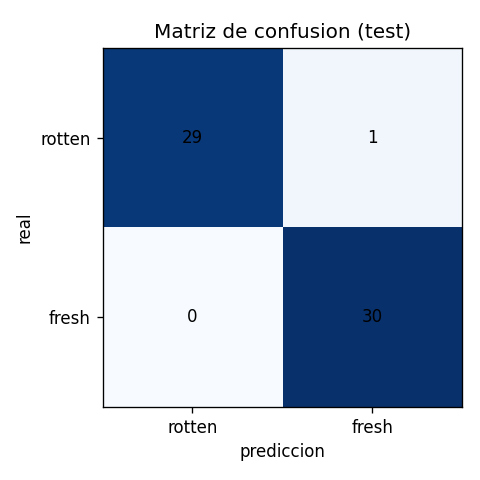
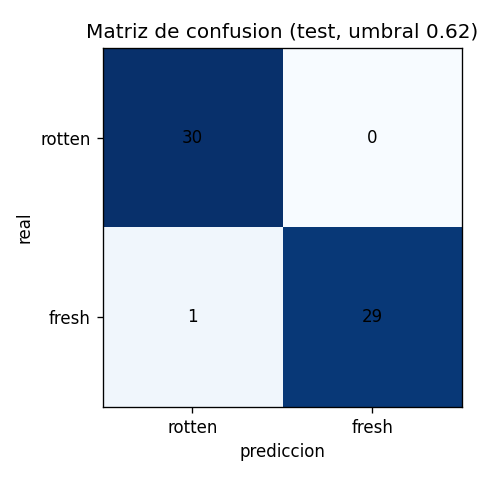
feat: calibrate the decision threshold toward catching rotten fruit
Letting a rotten grape pass as fresh is the expensive error; discarding
a good one only costs fruit. So the threshold for declaring "fresh" is
no longer a hardcoded 0.5: training sweeps it on the validation set and
keeps the lowest value that lets no rotten fruit through, breaking ties
by accuracy. It landed on 0.62.

Test accuracy is unchanged at 0.983, but the confusion matrix flips to
the safe side: 30 of 30 rotten caught and none passed, against one good
grape discarded. Rotten recall is 1.000 on both val and test.

The threshold ships inside preprocessing.json, so evaluate and predict
apply the same value the calibration chose, and predict now prints the
raw probability against it rather than a bare confidence.

Claude-Session: https://claude.ai/code/session_01ALGJCpbrsqPptQtiTy4SZi

diff --git a/src/evaluate.py b/src/evaluate.py
@@ -31,8 +31,9 @@ def predict_split(model: tf.keras.Model, split: str = "test"):
     part = frame[frame["split"] == split].reset_index(drop=True)
     ds = preprocessing.build_dataset(split, frame)
 
+    threshold = preprocessing.decision_threshold()
     probabilities = model.predict(ds, verbose=0).ravel()
-    return part["label"].to_numpy(), (probabilities >= 0.5).astype(int), part
+    return part["label"].to_numpy(), (probabilities >= threshold).astype(int), part
 
 
 def evaluate(model: tf.keras.Model, split: str = "test") -> dict:
@@ -42,20 +43,26 @@ def evaluate(model: tf.keras.Model, split: str = "test") -> dict:
         y_true, y_pred, average="binary", zero_division=0
     )
 
-    # Precision por foto original: cada foto aporta varias variantes, asi que
-    # votamos entre ellas. Da una lectura mas honesta del tamaño real del test.
+    # Fraccion de podridas efectivamente detectadas: es la metrica que importa
+    # cuando dejar pasar fruta en mal estado es el error caro.
+    rotten_recall = float(((y_true == 0) & (y_pred == 0)).sum() / max((y_true == 0).sum(), 1))
+
+    # Precision por foto original: cuando el dataset trae variantes de una misma
+    # foto, votamos entre ellas. Con un archivo por foto coincide con la normal.
     per_photo = part.assign(pred=y_pred).groupby("base_id").agg(
         label=("label", "first"), vote=("pred", lambda s: int(s.mean() >= 0.5))
     )
 
     return {
         "split": split,
+        "decision_threshold": preprocessing.decision_threshold(),
         "n_images": int(len(y_true)),
         "n_photos": int(part["base_id"].nunique()),
         "accuracy": float(accuracy_score(y_true, y_pred)),
         "precision": float(precision),
         "recall": float(recall),
         "f1": float(f1),
+        "rotten_recall": rotten_recall,
         "accuracy_per_photo": float(accuracy_score(per_photo["label"], per_photo["vote"])),
     }
 
@@ -72,7 +79,7 @@ def confusion_matrix(model: tf.keras.Model, split: str = "test") -> np.ndarray:
     ax.set_yticks([0, 1], labels=names)
     ax.set_xlabel("prediccion")
     ax.set_ylabel("real")
-    ax.set_title(f"Matriz de confusion ({split})")
+    ax.set_title(f"Matriz de confusion ({split}, umbral {preprocessing.decision_threshold():.2f})")
     for i in range(2):
         for j in range(2):
             ax.text(j, i, matrix[i, j], ha="center", va="center", color="black")
@@ -128,6 +135,7 @@ def main() -> None:
         print(
             f"[{split}] accuracy={values['accuracy']:.3f} precision={values['precision']:.3f} "
             f"recall={values['recall']:.3f} f1={values['f1']:.3f} "
+            f"| podridas detectadas={values['rotten_recall']:.3f} "
             f"(por foto: {values['accuracy_per_photo']:.3f}, "
             f"{values['n_images']} imgs / {values['n_photos']} fotos)"
         )

diff --git a/src/train.py b/src/train.py
@@ -5,9 +5,10 @@ from __future__ import annotations
 import json
 from pathlib import Path
 
+import numpy as np
 import tensorflow as tf
 
-from . import config, model as model_module, preprocessing
+from . import config, dataset, model as model_module, preprocessing
 
 HISTORY_PATH = config.MODELS_DIR / "history.json"
 
@@ -34,11 +35,39 @@ def train():
     return cnn, history
 
 
+def choose_threshold(trained_model: tf.keras.Model) -> float:
+    """Calibra en VALIDACION el umbral para declarar 'fresh'.
+
+    Dejar pasar una uva podrida como fresca es el error caro; descartar una
+    sana solo cuesta fruta. Asi que se busca el umbral mas bajo que no deje
+    escapar ninguna podrida, y entre los empatados el de mejor accuracy. El
+    umbral se elige en validacion, nunca en test.
+    """
+    frame = dataset.load_labels()
+    y_true = frame[frame["split"] == "val"]["label"].to_numpy()
+    probabilities = trained_model.predict(
+        preprocessing.build_dataset("val", frame), verbose=0
+    ).ravel()
+
+    mejor, mejor_clave = 0.5, None
+    for threshold in np.arange(0.30, 0.96, 0.01):
+        predicted = (probabilities >= threshold).astype(int)
+        escapan = int(((y_true == 0) & (predicted == 1)).sum())
+        accuracy = float((predicted == y_true).mean())
+        clave = (-escapan, accuracy)  # primero minimizar escapes, luego accuracy
+        if mejor_clave is None or clave > mejor_clave:
+            mejor, mejor_clave = round(float(threshold), 2), clave
+
+    escapan, accuracy = -mejor_clave[0], mejor_clave[1]
+    print(f"umbral calibrado -> {mejor:.2f} (val: {escapan} podridas escapan, accuracy {accuracy:.3f})")
+    return mejor
+
+
 def save_artifacts(trained_model: tf.keras.Model, history=None) -> None:
     """Save the model (.keras) and the preprocessing config (.json)."""
     config.MODELS_DIR.mkdir(parents=True, exist_ok=True)
     trained_model.save(config.MODEL_PATH)
-    preprocessing.save_preprocessing()
+    preprocessing.save_preprocessing(decision_threshold=choose_threshold(trained_model))
 
     if history is not None:
         HISTORY_PATH.write_text(

diff --git a/src/preprocessing.py b/src/preprocessing.py
@@ -80,14 +80,17 @@ def build_datasets():
     return train_ds, val_ds
 
 
-def save_preprocessing(path: Path = config.PREPROCESSING_PATH) -> Path:
-    """Serialize img_size, normalization and classes to JSON."""
+def save_preprocessing(
+    path: Path = config.PREPROCESSING_PATH, decision_threshold: float = 0.5
+) -> Path:
+    """Serialize img_size, normalization, classes and decision threshold."""
     path.parent.mkdir(parents=True, exist_ok=True)
     payload = {
         "img_size": list(config.IMG_SIZE),
         "normalization": NORMALIZATION,
         "classes": config.CLASSES,
         "variants_per_photo": config.VARIANTS_PER_PHOTO,
+        "decision_threshold": float(decision_threshold),
     }
     path.write_text(json.dumps(payload, indent=2), encoding="utf-8")
     return path
@@ -98,3 +101,13 @@ def load_preprocessing(path: Path = config.PREPROCESSING_PATH) -> dict:
     if not path.exists():
         raise FileNotFoundError(f"Falta {path}. Corre antes: python -m src.train")
     return json.loads(path.read_text(encoding="utf-8"))
+
+
+def decision_threshold(path: Path = config.PREPROCESSING_PATH) -> float:
+    """Umbral por encima del cual se declara 'fresh'.
+
+    Se calibra en validacion al entrenar. Es mayor que 0.5 a proposito: dejar
+    pasar una uva podrida como fresca es mas grave que descartar una sana, asi
+    que se exige mas evidencia para decir 'fresh'.
+    """
+    return float(load_preprocessing(path).get("decision_threshold", 0.5))

diff --git a/src/predict.py b/src/predict.py
@@ -34,18 +34,21 @@ def predict(image_path: Path) -> dict:
         raise FileNotFoundError(f"No existe la imagen {image_path}")
 
     # Releemos el preprocessing guardado junto al modelo para aplicar en
-    # inferencia exactamente la misma transformacion que en entrenamiento.
-    preprocessing.load_preprocessing()
+    # inferencia exactamente la misma transformacion que en entrenamiento,
+    # incluido el umbral de decision calibrado.
+    threshold = preprocessing.decision_threshold()
 
     model = load_model()
     image = preprocessing.load_image(image_path)
     probability = float(model.predict(np.expand_dims(image, 0), verbose=0)[0][0])
 
-    label = int(probability >= 0.5)
+    label = int(probability >= threshold)
     return {
         "image": image_path.name,
         "label": label,
         "class_name": config.CLASS_NAMES[label],
+        "p_fresh": probability,
+        "threshold": threshold,
         "confidence": probability if label == 1 else 1 - probability,
     }
 
@@ -58,8 +61,8 @@ def main(argv: list[str]) -> int:
     for raw_path in argv[1:]:
         result = predict(Path(raw_path))
         print(
-            f"{result['image']:<55} -> {result['class_name']:<6} "
-            f"(label={result['label']}, confianza={result['confidence']:.3f})"
+            f"{result['image']:<45} -> {result['class_name']:<6} "
+            f"(p_fresh={result['p_fresh']:.3f} vs umbral {result['threshold']:.2f})"
         )
     return 0
 
